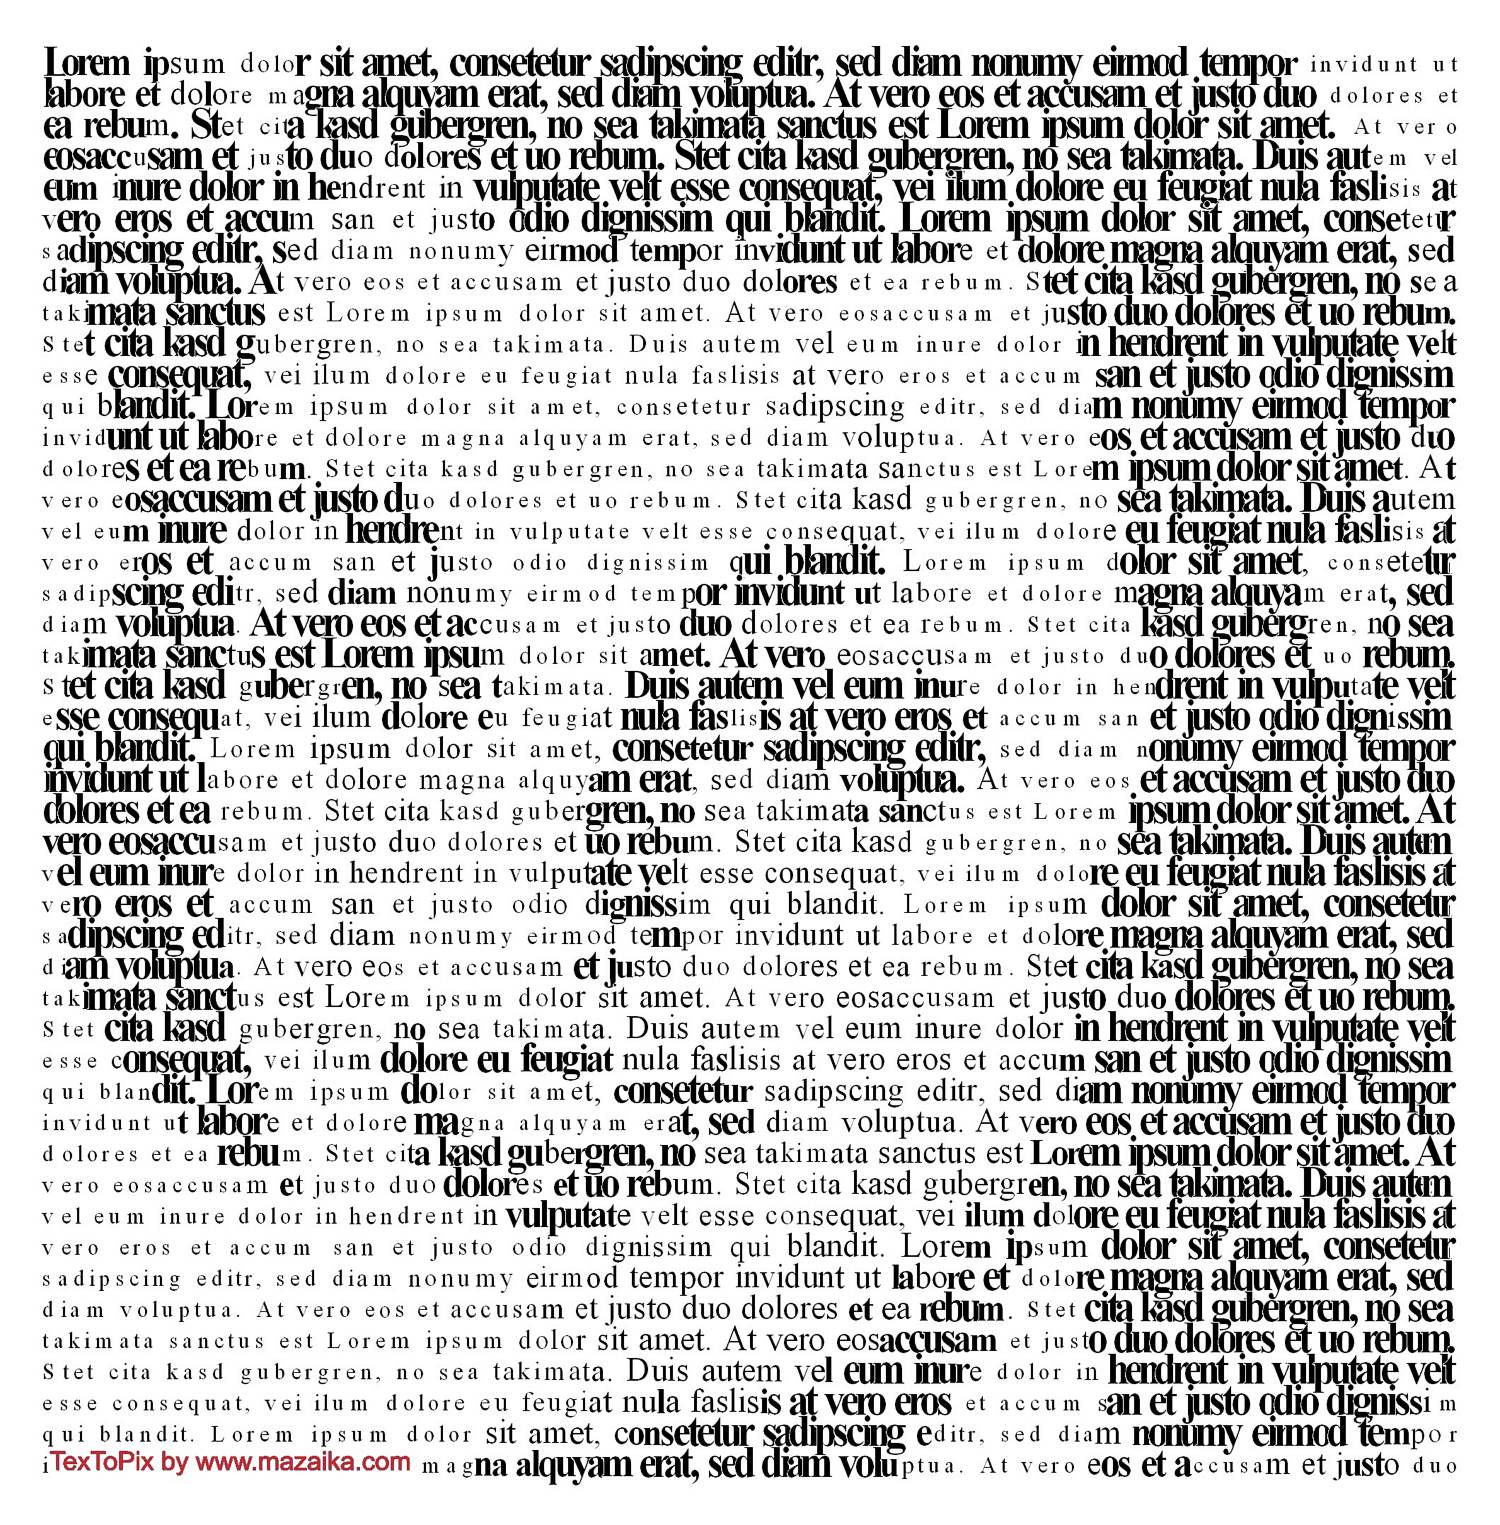
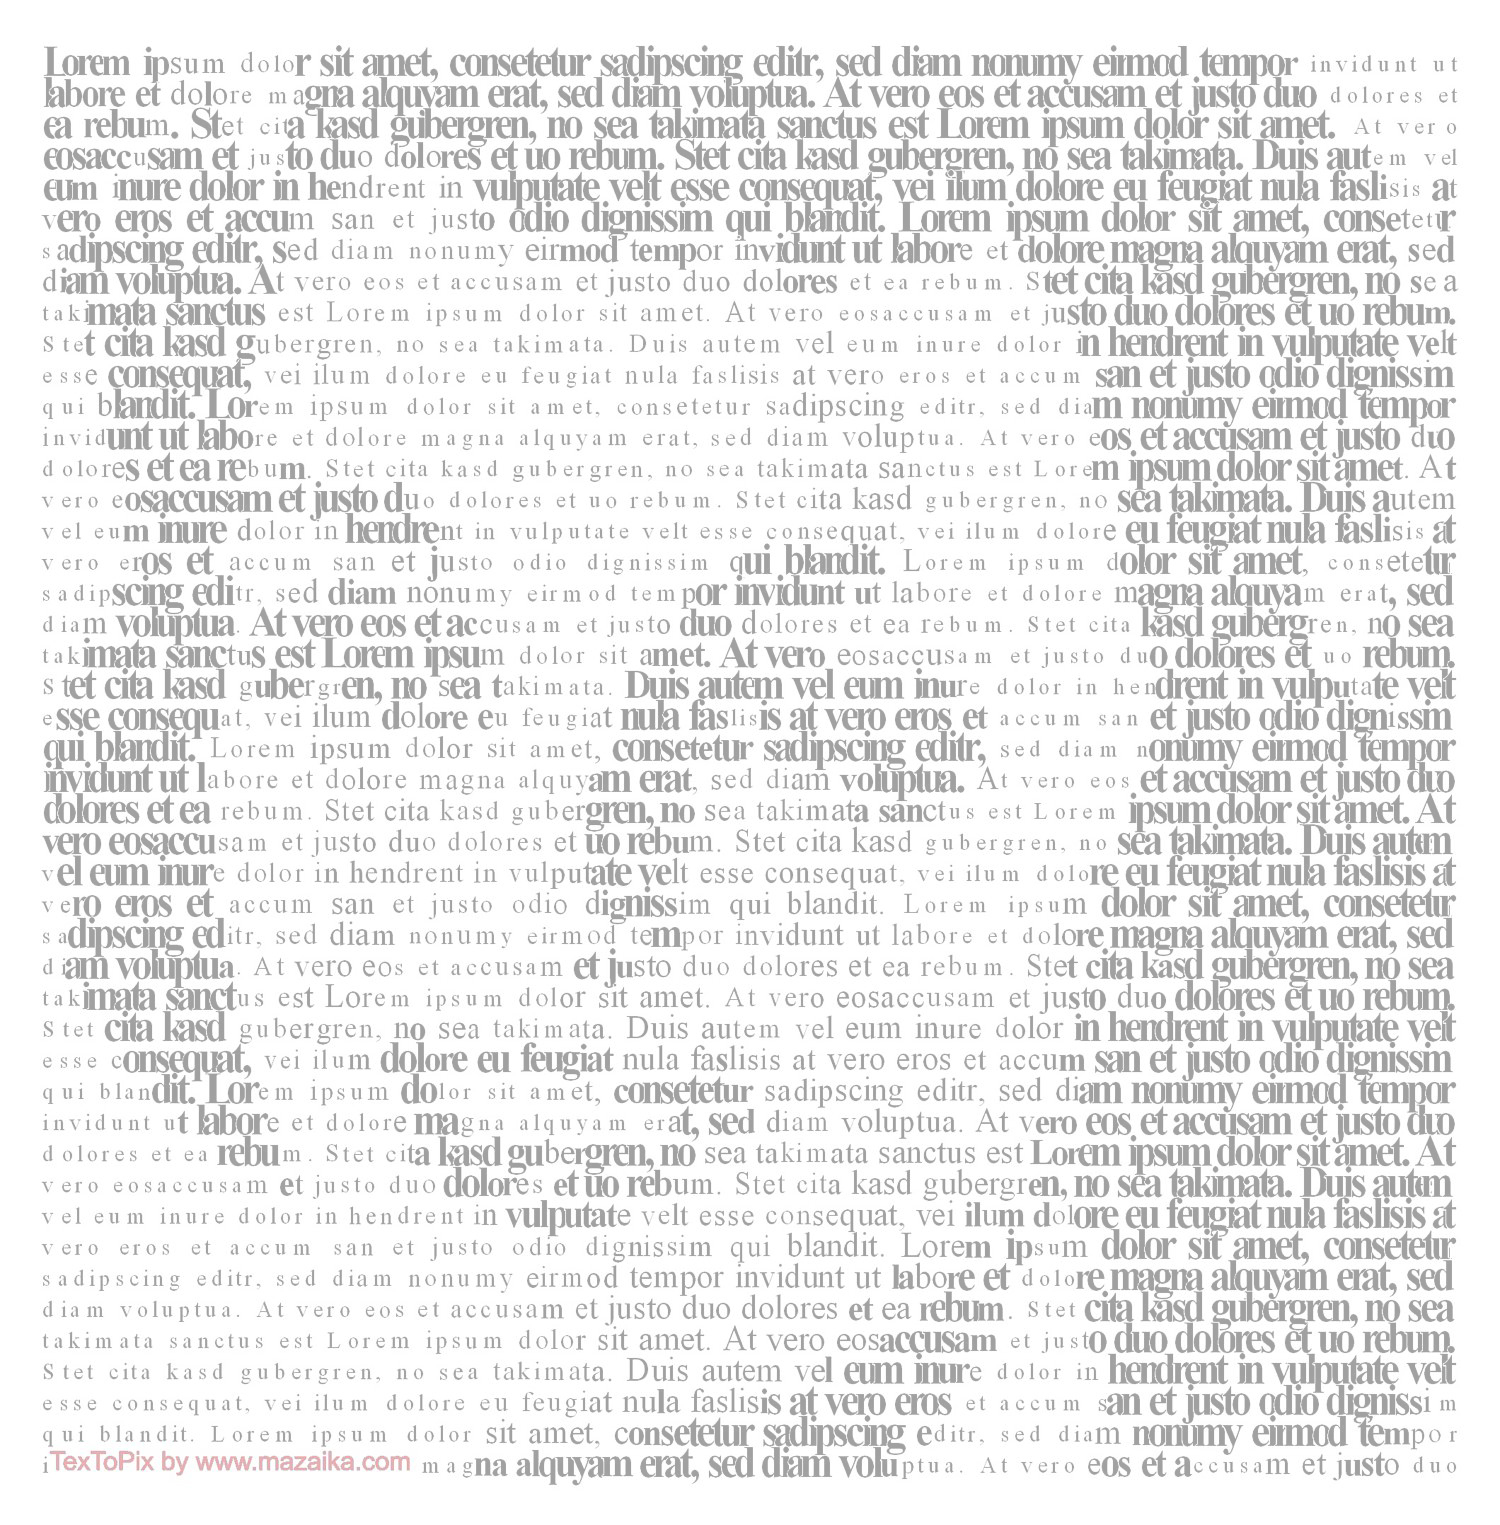
started scripting, finished arrays without punctation, need to do indexOf each word and function for finding if word occurs more than once

Changed region(s): [[0.0307, 0.0308, 0.9813, 0.9862]]

diff --git a/js/scripts.js b/js/scripts.js
@@ -1,6 +1,6 @@
+var userInput = "";
 var userWords = [];
-var userWordsTrimWords = [];
-var threeCharacterOrMoreWords =[];
+
 
 $(document).ready(function(){
 
@@ -11,26 +11,14 @@ $(document).ready(function(){
 
     $("div#userSentenceIntro").show();
 
-    userWords = $("textarea#sentence").val().split(", ");
+    userInput = $("textarea#sentence").val();
 
-    userWordsTrimWords = userWords.map(function(word){
-      return word.trim(this);
-    });
+    console.log(userInput);
 
-    threeCharacterOrMoreWords = userWordsTrimWords.filter(word => word.length >= 3);
-
-    threeCharacterOrMoreWords.reverse();
-
-    var sentenceAlter = threeCharacterOrMoreWords.join(" ");
+    userWords = userInput.replace(/[.,\/#!$%\^&\*;:{}=\-_`~()]\r\R/g,"").split(" ");
 
 
-    $("ul#userSentence").append("<li><i>" + sentenceAlter + "</i></li>");
-
-    userWords.sort();
-
-    userWords.forEach(function(word){
-      $("ul#userList").append("<li>" + word + "</li>");
-    });
+    console.log(userWords);
 
   });
 

diff --git a/index.html b/index.html
@@ -45,3 +45,6 @@
     </div>
   </body>
 </html>
+
+
+<!-- Lorem ipsum dolor sit amet, consectetur adipisicing elit, sed do eiusmod tempor incididunt ut labore et dolore magna aliqua. Ut enim ad minim veniam, quis nostrud exercitation ullamco laboris nisi ut aliquip ex ea commodo consequat. Duis aute irure dolor in reprehenderit in voluptate velit esse cillum dolore eu fugiat nulla pariatur. Excepteur sint occaecat cupidatat non proident, sunt in culpa qui officia deserunt mollit anim id est laborum. -->

diff --git a/css/styles.css b/css/styles.css
@@ -152,7 +152,7 @@ body {
   font-weight: 400;
   font-style: normal;
   font-variant: normal;
-  background-image: url("..img/loremIpsumBackground.jpg");
+  background-image: url("../img/loremIpsumBackground.jpg");
   background-repeat: no-repeat;
   background-position: center center;
   background-attachment: fixed;
@@ -175,7 +175,7 @@ body {
   text-align: center;
 }
 .formBackground {
-  background-color:rgba(255,255,255, 0.75);
+  background-color:rgba(255,255,255, 0.80);
 }
 
 h2 {

diff --git a/README.md b/README.md
@@ -31,7 +31,7 @@ All previous objectives have been met.
 ## Current Screenshot for Reference
 <br>
 
-![alt text](https://raw.githubusercontent.com/rerun1/wordOrder/master/img/screenShot8-12-19.png)
+![alt text](https://raw.githubusercontent.com/rerun1/wordOrder/master/img/screenShot8-13-19.png)
 <br>
 <br>
 
